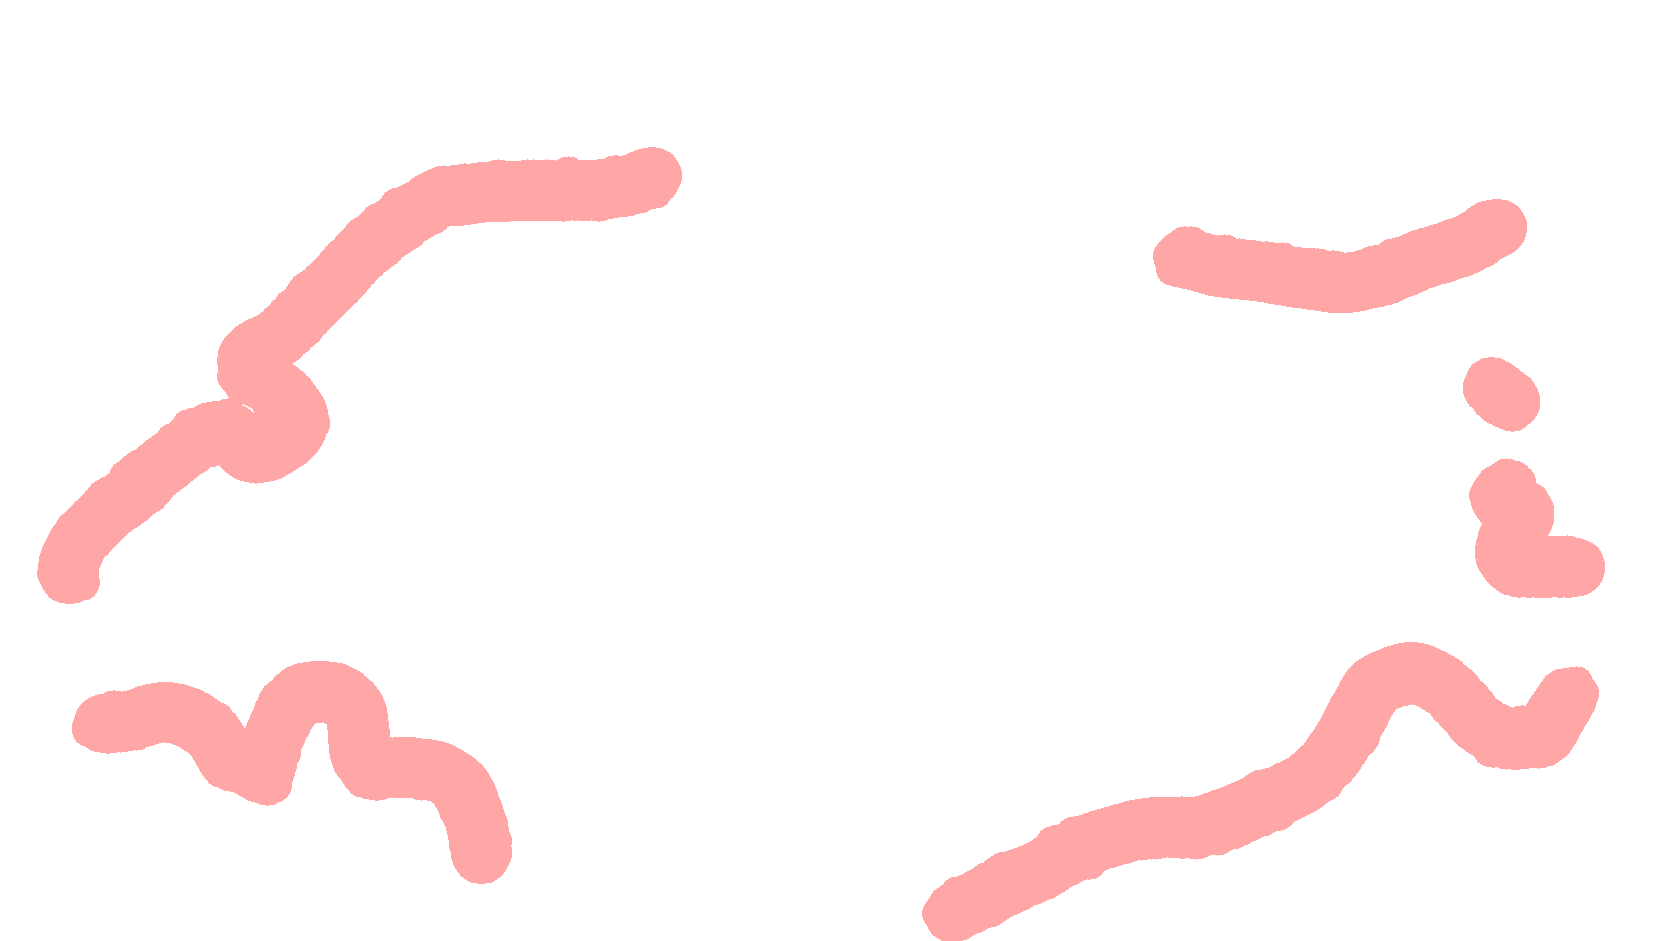
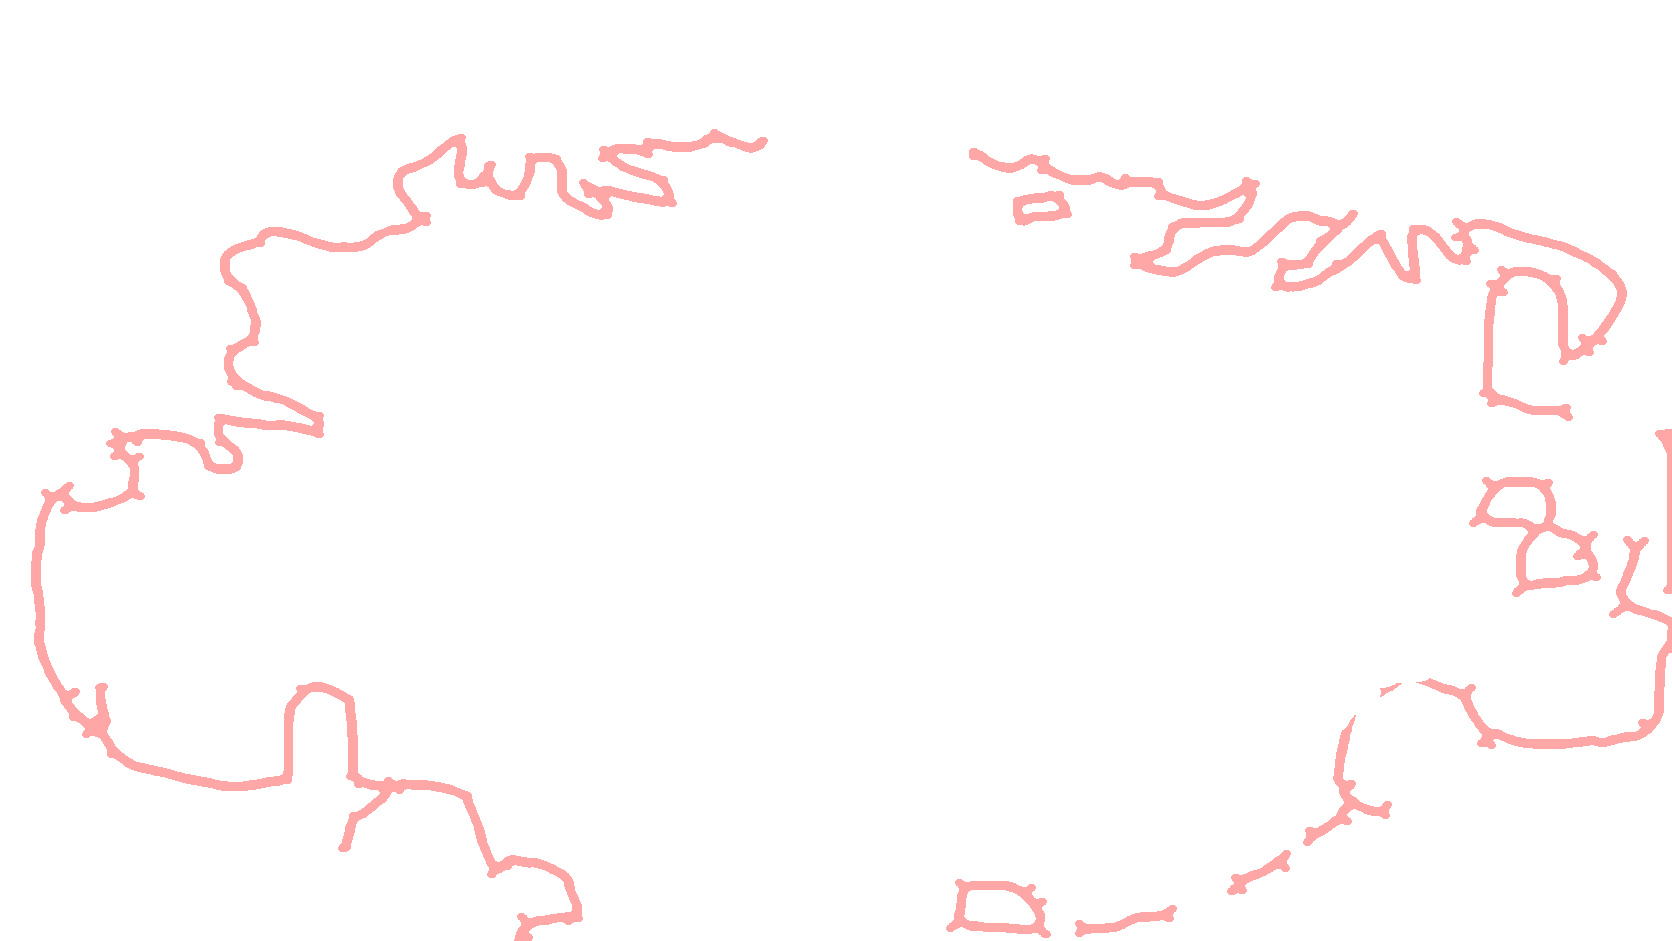
Add foreground branches and refine collisions
Generate foreground and collision masks from map annotations, add branch layering and clearance corrections, and use smaller movement steps to improve collision handling.

diff --git a/tools/generate_clearing_mask.py b/tools/generate_clearing_mask.py
@@ -1,4 +1,4 @@
-"""Extract provisional wall geometry from the red marks on the clearing image.
+"""Extract wall and foreground annotations from the marked clearing image.
 
 Requires Pillow, NumPy and OpenCV only when regenerating the mask. The game
 loads the generated PNG and does not need Python or OpenCV at runtime.
@@ -12,26 +12,71 @@ from PIL import Image
 
 
 ROOT = Path(__file__).resolve().parents[1]
-marked = np.asarray(Image.open(ROOT / "design/clareira_marcada.jpg").convert("RGB"))
+marked = np.asarray(Image.open(ROOT / "design/clareira_marcada.png").convert("RGB"))
 red = (
     (marked[:, :, 0] > 180)
     & (marked[:, :, 1] < 100)
     & (marked[:, :, 2] < 100)
 ).astype(np.uint8)
 
-# JPEG compression leaves isolated red pixels. Preserve only the marked strokes.
+# Ignore isolated pixels and preserve the marked strokes.
 count, labels, stats, _ = cv2.connectedComponentsWithStats(red, 8)
 strokes = np.zeros(red.shape, dtype=np.uint8)
 for index in range(1, count):
     if stats[index, cv2.CC_STAT_AREA] >= 500:
         strokes[labels == index] = 255
 
-# Inflate the painted boundary by the placeholder player's 16-pixel radius.
-kernel = cv2.getStructuringElement(cv2.MORPH_ELLIPSE, (33, 33))
-blocked = cv2.dilate(strokes, kernel)
+# The red paint is much wider than a wall line. Reduce it to a centerline first,
+# then use a small gameplay footprint. The drawn player is deliberately wider
+# than its collision footprint so it can overlap decorative edges slightly.
+skeleton = np.zeros_like(strokes)
+remaining = strokes.copy()
+cross = cv2.getStructuringElement(cv2.MORPH_CROSS, (3, 3))
+while cv2.countNonZero(remaining):
+    eroded = cv2.erode(remaining, cross)
+    opened = cv2.dilate(eroded, cross)
+    skeleton = cv2.bitwise_or(skeleton, cv2.subtract(remaining, opened))
+    remaining = eroded
+
+kernel = cv2.getStructuringElement(cv2.MORPH_ELLIPSE, (9, 9))
+blocked = cv2.dilate(skeleton, kernel)
+blocked = cv2.morphologyEx(
+    blocked, cv2.MORPH_CLOSE, cv2.getStructuringElement(cv2.MORPH_ELLIPSE, (5, 5))
+)
+blocked = cv2.GaussianBlur(blocked, (5, 5), 0)
+blocked = np.where(blocked >= 128, 255, 0).astype(np.uint8)
+
+adjustments = np.asarray(Image.open(ROOT / "design/clareira_ajustes.png").convert("RGBA"))
+if adjustments.shape[:2] != blocked.shape:
+    raise ValueError("Adjustment image and collision mask must have the same size")
+clearance = ((adjustments[:, :, 1] > 150) &
+             (adjustments[:, :, 2] > 150) &
+             (adjustments[:, :, 3] > 0))
+blocked[clearance] = 0
 overlay = np.zeros((*blocked.shape, 4), dtype=np.uint8)
 overlay[blocked > 0] = (255, 30, 30, 100)
 
 destination = ROOT / "assets/clareira_collision.png"
 Image.fromarray(overlay, "RGBA").save(destination)
 print(f"Wrote {destination} ({blocked.shape[1]}x{blocked.shape[0]})")
+
+# Black paint identifies branches to render above actors. Compare with the
+# unmarked background so naturally dark forest pixels do not enter the mask.
+background = np.asarray(Image.open(ROOT / "assets/clareira.png").convert("RGB"))
+if background.shape != marked.shape:
+    raise ValueError("Marked image and background must have the same size")
+difference = np.max(np.abs(marked.astype(np.int16) - background.astype(np.int16)), axis=2)
+black = ((marked.max(axis=2) < 30) & (difference > 20)).astype(np.uint8)
+count, labels, stats, _ = cv2.connectedComponentsWithStats(black, 8)
+branches = np.zeros(black.shape, dtype=np.uint8)
+for index in range(1, count):
+    if stats[index, cv2.CC_STAT_AREA] >= 500:
+        branches[labels == index] = 255
+branches[(adjustments[:, :, :3].max(axis=2) < 40) &
+         (adjustments[:, :, 3] > 0)] = 255
+
+branch_overlay = np.zeros((*branches.shape, 4), dtype=np.uint8)
+branch_overlay[branches > 0] = (0, 0, 0, 255)
+branch_destination = ROOT / "assets/clareira_foreground_mask.png"
+Image.fromarray(branch_overlay, "RGBA").save(branch_destination)
+print(f"Wrote {branch_destination} ({branches.shape[1]}x{branches.shape[0]})")

diff --git a/src/clearing.c b/src/clearing.c
@@ -30,19 +30,70 @@ bool InitClearing(Clearing *clearing) {
     }
     SetTextureFilter(clearing->collisionGuide, TEXTURE_FILTER_POINT);
 
+    Image foregroundImage = LoadImage("assets/clareira.png");
+    Image foregroundMask = LoadImage("assets/clareira_foreground_mask.png");
+    if (foregroundImage.data == NULL || foregroundMask.data == NULL ||
+        foregroundMask.width != clearing->background.width ||
+        foregroundMask.height != clearing->background.height) {
+        TraceLog(LOG_ERROR, "Mascara dos galhos ausente ou com tamanho diferente do mapa");
+        if (foregroundImage.data != NULL) UnloadImage(foregroundImage);
+        if (foregroundMask.data != NULL) UnloadImage(foregroundMask);
+        UnloadClearing(clearing);
+        return false;
+    }
+    ImageFormat(&foregroundImage, PIXELFORMAT_UNCOMPRESSED_R8G8B8A8);
+    clearing->foregroundMaskPixels = LoadImageColors(foregroundMask);
+    UnloadImage(foregroundMask);
+    if (clearing->foregroundMaskPixels == NULL) {
+        UnloadImage(foregroundImage);
+        UnloadClearing(clearing);
+        return false;
+    }
+    Color *foregroundPixels = (Color *) foregroundImage.data;
+    int count = foregroundImage.width * foregroundImage.height;
+    for (int index = 0; index < count; index++) {
+        foregroundPixels[index].a = clearing->foregroundMaskPixels[index].a;
+    }
+    clearing->foreground = LoadTextureFromImage(foregroundImage);
+    UnloadImage(foregroundImage);
+    if (clearing->foreground.id == 0) {
+        UnloadClearing(clearing);
+        return false;
+    }
+    SetTextureFilter(clearing->foreground, TEXTURE_FILTER_POINT);
+
     // A mascara bloqueia as marcas vermelhas; este retangulo fecha o resto da borda.
     clearing->playableBounds = (Rectangle) {
-        90.0f, 160.0f,
-        (float) clearing->background.width - 180.0f,
-        (float) clearing->background.height - 230.0f
+        50.0f, 150.0f,
+        (float) clearing->background.width - 100.0f,
+        (float) clearing->background.height - 166.0f
     };
-    clearing->spawn = (Vector2) { 757.0f, 821.0f };
+    clearing->spawn = (Vector2) { 790.0f, 894.0f };
     clearing->pedestal = (Vector2) { 869.0f, 162.0f };
     return true;
 }
 
 void DrawClearing(const Clearing *clearing) {
     DrawTexture(clearing->background, 0, 0, WHITE);
+}
+
+void DrawClearingForeground(const Clearing *clearing, Vector2 player) {
+    int x = (int) player.x;
+    int y = (int) player.y;
+    bool behindBranch = x >= 0 && y >= 0 &&
+        x < clearing->background.width && y < clearing->background.height &&
+        clearing->foregroundMaskPixels[y * clearing->background.width + x].a > 0;
+    int middle = clearing->background.width / 2;
+    DrawTextureRec(clearing->foreground,
+        (Rectangle) { 0, 0, (float) middle, (float) clearing->background.height },
+        (Vector2) { 0, 0 },
+        behindBranch && x < middle ? Fade(WHITE, 0.7f) : WHITE);
+    DrawTextureRec(clearing->foreground,
+        (Rectangle) { (float) middle, 0,
+                      (float) (clearing->background.width - middle),
+                      (float) clearing->background.height },
+        (Vector2) { (float) middle, 0 },
+        behindBranch && x >= middle ? Fade(WHITE, 0.7f) : WHITE);
 }
 
 void DrawClearingCollisionGuide(const Clearing *clearing) {
@@ -64,6 +115,14 @@ bool IsClearingBlocked(const Clearing *clearing, Vector2 point) {
 }
 
 void UnloadClearing(Clearing *clearing) {
+    if (clearing->foregroundMaskPixels != NULL) {
+        UnloadImageColors(clearing->foregroundMaskPixels);
+        clearing->foregroundMaskPixels = NULL;
+    }
+    if (clearing->foreground.id != 0) {
+        UnloadTexture(clearing->foreground);
+        clearing->foreground.id = 0;
+    }
     if (clearing->collisionPixels != NULL) {
         UnloadImageColors(clearing->collisionPixels);
         clearing->collisionPixels = NULL;

diff --git a/tools/extract_clearing_feedback.py b/tools/extract_clearing_feedback.py
@@ -1,0 +1,48 @@
+"""Convert a marked gameplay screenshot into map-sized collision corrections.
+
+Usage: python tools/extract_clearing_feedback.py <plain screenshot> <marked screenshot>
+The two screenshots must have identical pixels outside the painted annotations.
+"""
+
+import sys
+from pathlib import Path
+
+import cv2
+import numpy as np
+from PIL import Image
+
+
+ROOT = Path(__file__).resolve().parents[1]
+plain = np.asarray(Image.open(sys.argv[1]).convert("RGB"))
+marked = np.asarray(Image.open(sys.argv[2]).convert("RGB"))
+if plain.shape != marked.shape:
+    raise ValueError("Screenshots must have the same dimensions")
+
+changed = np.max(np.abs(marked.astype(np.int16) - plain.astype(np.int16)), axis=2) > 30
+black = changed & (marked.max(axis=2) < 40)
+cyan = changed & (marked[:, :, 0] < 80) & (marked[:, :, 1] > 110) & (marked[:, :, 2] > 130)
+
+# The fullscreen screenshot fits the entire 1672x941 map. This registration
+# was measured from matching features in the plain screenshot and map image.
+screen_from_map = np.array(
+    [[1.13387466, 0.00019730, 6.05384425],
+     [0.00011295, 1.13401756, -8.08800940]], dtype=np.float32
+)
+map_from_screen = cv2.invertAffineTransform(screen_from_map)
+size = Image.open(ROOT / "assets/clareira.png").size
+
+def to_map(mask):
+    return cv2.warpAffine(mask.astype(np.uint8) * 255, map_from_screen, size,
+                          flags=cv2.INTER_NEAREST) > 0
+
+branch = cv2.dilate(to_map(black).astype(np.uint8),
+                    cv2.getStructuringElement(cv2.MORPH_ELLIPSE, (7, 7))) > 0
+clear = cv2.dilate(to_map(cyan).astype(np.uint8),
+                   cv2.getStructuringElement(cv2.MORPH_ELLIPSE, (17, 17))) > 0
+
+corrections = np.zeros((size[1], size[0], 4), dtype=np.uint8)
+corrections[branch] = (0, 0, 0, 255)
+corrections[clear] = (0, 255, 255, 255)
+destination = ROOT / "design/clareira_ajustes.png"
+Image.fromarray(corrections, "RGBA").save(destination)
+print(f"Wrote {destination}: {branch.sum()} branch pixels, {clear.sum()} clearance pixels")

diff --git a/src/game.c b/src/game.c
@@ -42,10 +42,14 @@ int main(void) {
         if (Vector2LengthSqr(direction) > 0.0f) {
             direction = Vector2Normalize(direction);
             Vector2 movement = Vector2Scale(direction, playerSpeed * GetFrameTime());
-            Vector2 next = { player.x + movement.x, player.y };
-            if (!IsClearingBlocked(&clearing, next)) player.x = next.x;
-            next = (Vector2) { player.x, player.y + movement.y };
-            if (!IsClearingBlocked(&clearing, next)) player.y = next.y;
+            int steps = (int) (Vector2Length(movement) / 4.0f) + 1;
+            Vector2 step = Vector2Scale(movement, 1.0f / (float) steps);
+            for (int index = 0; index < steps; index++) {
+                Vector2 next = { player.x + step.x, player.y };
+                if (!IsClearingBlocked(&clearing, next)) player.x = next.x;
+                next = (Vector2) { player.x, player.y + step.y };
+                if (!IsClearingBlocked(&clearing, next)) player.y = next.y;
+            }
         }
 
         Camera2D camera = FitClearing(&clearing);
@@ -57,11 +61,12 @@ int main(void) {
             ClearBackground(BLACK);
             BeginMode2D(camera);
                 DrawClearing(&clearing);
+                DrawCircleV(player, 16.0f, (Color) { 66, 172, 204, 255 });
+                DrawCircleLines((int) player.x, (int) player.y, 16.0f, WHITE);
+                DrawClearingForeground(&clearing, player);
                 if (showCollisionGuide) {
                     DrawClearingCollisionGuide(&clearing);
                 }
-                DrawCircleV(player, 16.0f, (Color) { 66, 172, 204, 255 });
-                DrawCircleLines((int) player.x, (int) player.y, 16.0f, WHITE);
             EndMode2D();
 
             DrawRectangle(12, 12, 380, 76, Fade(BLACK, 0.72f));

diff --git a/src/clearing.h b/src/clearing.h
@@ -7,7 +7,9 @@
 typedef struct Clearing {
     Texture2D background;
     Texture2D collisionGuide;
+    Texture2D foreground;
     Color *collisionPixels;
+    Color *foregroundMaskPixels;
     Rectangle playableBounds;
     Vector2 spawn;
     Vector2 pedestal;
@@ -15,6 +17,7 @@ typedef struct Clearing {
 
 bool InitClearing(Clearing *clearing);
 void DrawClearing(const Clearing *clearing);
+void DrawClearingForeground(const Clearing *clearing, Vector2 player);
 void DrawClearingCollisionGuide(const Clearing *clearing);
 bool IsClearingBlocked(const Clearing *clearing, Vector2 point);
 void UnloadClearing(Clearing *clearing);

diff --git a/README.md b/README.md
@@ -2,9 +2,13 @@
 
 Protótipo da clareira em C com raylib 5.5. A arte de fundo está em
 `assets/clareira.png`. O mapa marcado pelo criador está em
-`design/clareira_marcada.jpg`; `assets/clareira_collision.png` é a máscara de
-colisão gerada a partir das linhas vermelhas. Azul marca o pedestal e amarelo
-marca a posição inicial do jogador.
+`design/clareira_marcada.png`. As linhas vermelhas geram
+`assets/clareira_collision.png`; as áreas pretas geram
+`assets/clareira_foreground_mask.png` para desenhar os galhos sobre o jogador.
+As correções feitas sobre o print do jogo estão em `design/clareira_ajustes.png`:
+preto acrescenta galho em primeiro plano e ciano libera espaço para andar.
+Amarelo marca a posição inicial; o pedestal mantém sua área de interação
+definida no código.
 
 ## Compilar no Windows (MSYS2 UCRT64)
 
@@ -24,9 +28,11 @@ em `build/`.
 - E perto do pedestal: inspecionar a saída ainda selada.
 - Esc: sair.
 
-O personagem ainda é um círculo provisório. As colisões seguem os traços
-vermelhos, com uma margem para o tamanho dele. Pedras pequenas sem marcação não
-bloqueiam movimento. Para atualizar a máscara após editar a imagem anotada no
+O personagem ainda é um círculo provisório. As colisões seguem a linha central
+dos traços vermelhos, com uma margem pequena para o tamanho dele. Os galhos
+marcados de preto aparecem acima do personagem; ficam parcialmente transparentes
+quando ele passa por trás. Objetos sem marcação não bloqueiam movimento.
+Para atualizar a máscara após editar a imagem anotada no
 mesmo tamanho (1672 × 941 pixels), rode:
 
 ```powershell
